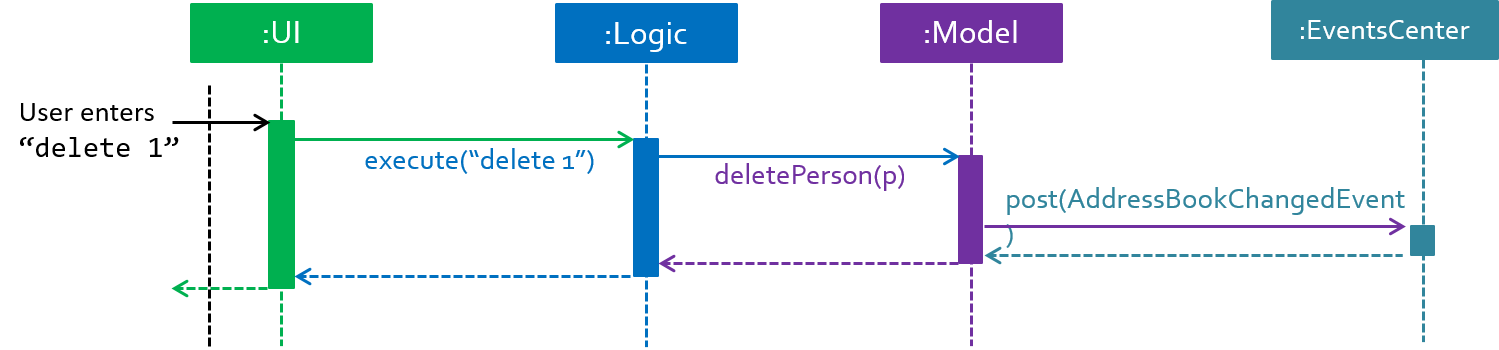
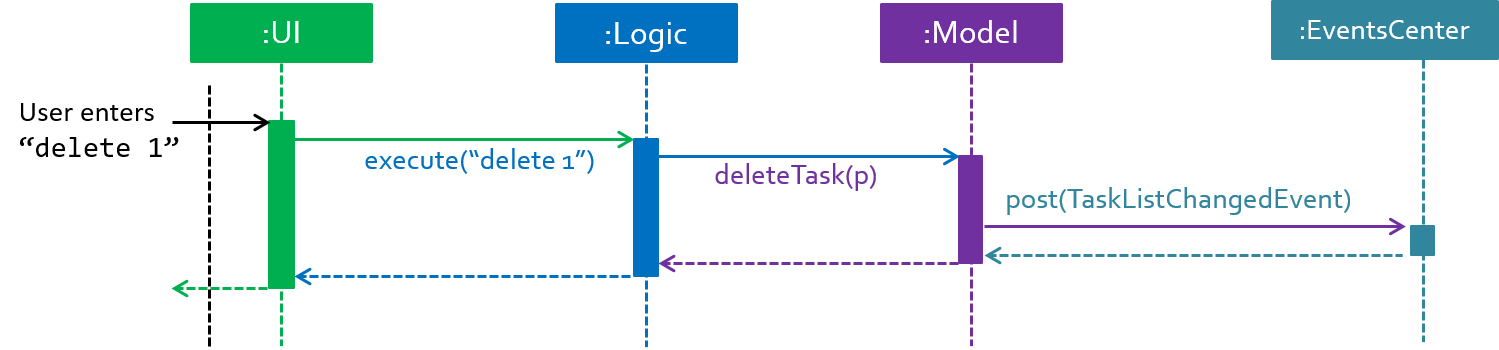
Edit errors with DeveloperGuide and stuff missed out

Changed region(s): [[0.7058, 0.5429, 0.9513, 0.6], [0.5217, 0.4571, 0.6137, 0.5429]]

diff --git a/docs/DeveloperGuide.md b/docs/DeveloperGuide.md
@@ -84,7 +84,7 @@ command `delete 3`.
 
 The diagram below shows how the `EventsCenter` reacts to that event, which eventually results in the updates
 being saved to the hard disk and the status bar of the UI being updated to reflect the 'Last Updated' time. <br>
-<img src="images\SDforDeletePersonEventHandling.png" width="800">
+<img src="images\SDforDeleteTaskEventHandling.png" width="800">
 
 > Note how the event is propagated through the `EventsCenter` to the `Storage` and `UI` without `Model` having
   to be coupled to either of them. This is an example of how this Event Driven approach helps us reduce direct 
